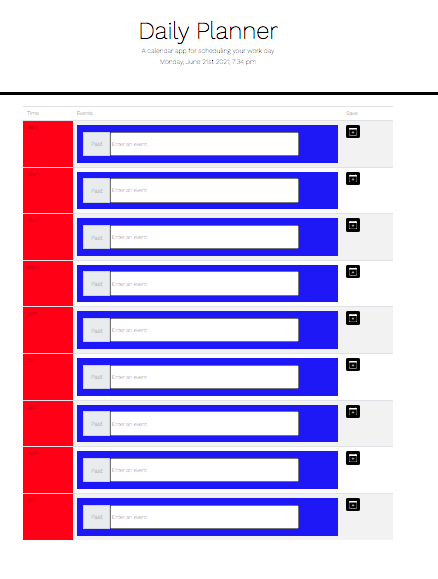
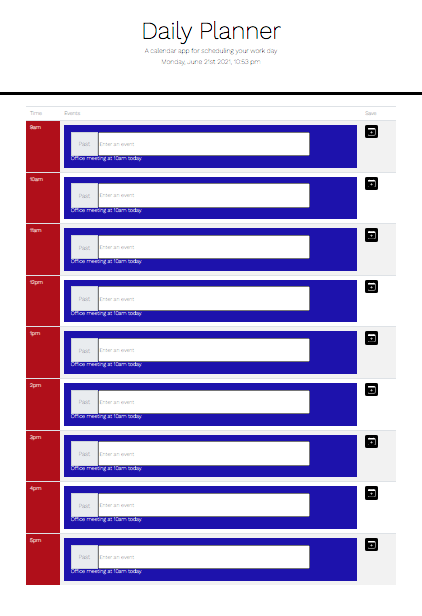
changed color scheme

diff --git a/Develop/script.js b/Develop/script.js
@@ -102,11 +102,11 @@ Array.from(hourBlock).forEach( hour => {
     //calling internal setBgColor fcn
     if (rowTime) {
         if (momentHour === rowTime) {
-            setBgColor(hour, "yellow");
+            setBgColor(hour, "rgb(219, 158, 4)");
         } else if (momentHour > rowTime) {
-            setBgColor(hour, "red"); 
+            setBgColor(hour, "rgb(172, 20, 20)"); 
         } else if (momentHour < rowTime) {
-            setBgColor(hour, "green")
+            setBgColor(hour, "rgba(0, 105, 0, 0.863)")
         }
     }
 

diff --git a/Develop/style.css b/Develop/style.css
@@ -82,13 +82,13 @@ textarea {
 .saveBtn:hover {
   font-size: 20px;
   transition: all 0.3s ease-in-out;
-  background-color: blue;
+  background-color: rgb(19, 7, 179);
   cursor: pointer;
 }
 
 /* styling border around input field */
 .input-group {
-  background-color: blue;
+  background-color: rgb(19, 7, 179);
   padding: 20px;
   color:white;
 }
@@ -110,6 +110,11 @@ textarea {
 /* input field size */
 .form-input {
   width:76%;
+}
+
+.hourBlock {
+  font-weight: bold;
+  color:white
 }
 
 

diff --git a/README.md b/README.md
@@ -24,3 +24,4 @@ Screenshots:
 <img src = "./images/hw5-2.png">
 <img src = "./images/hw5-3.png">
 <img src = "./images/hw5-4.png">
+<img src = "./images/hw5-5.png">
